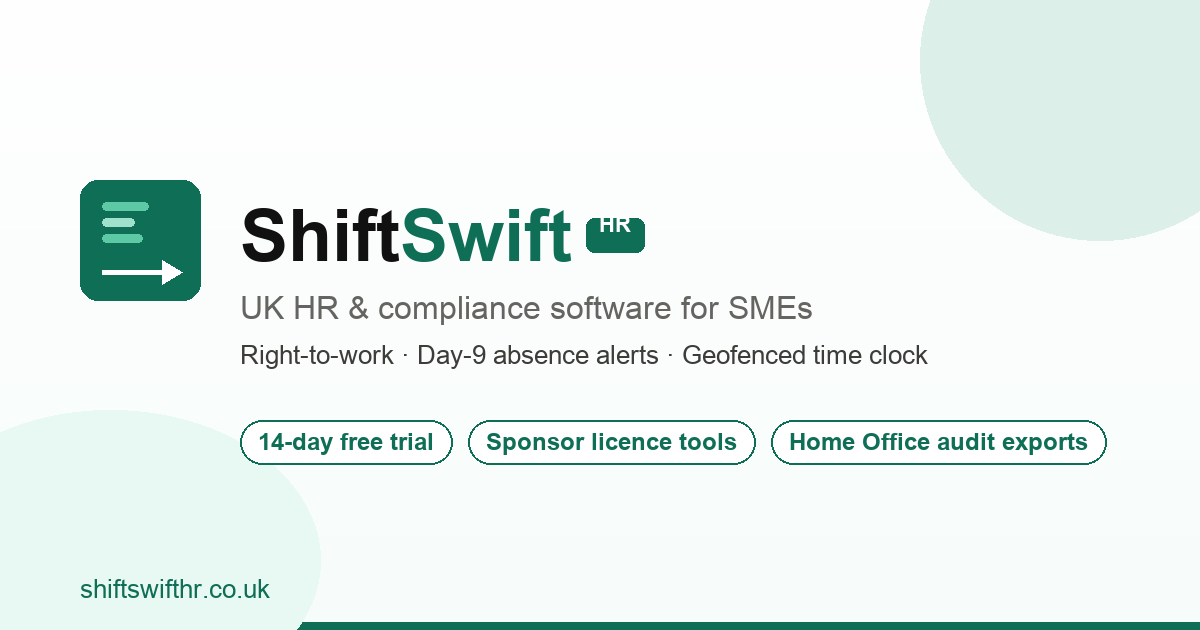
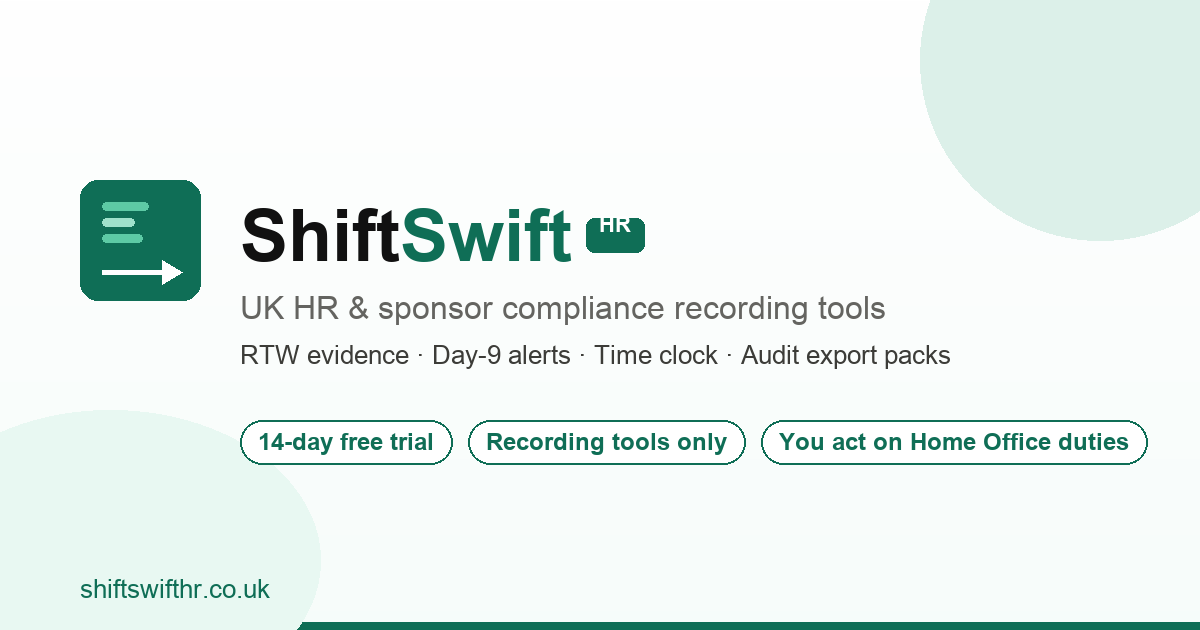
Soften social preview copy to align with EULA disclaimers.
Clarify that ShiftSwift HR provides recording tools and that customers remain responsible for Home Office duties.

Changed region(s): [[0.2158, 0.5429, 0.8017, 0.6032], [0.4008, 0.6635, 0.9558, 0.7238], [0.3083, 0.4524, 0.74, 0.5127]]

diff --git a/frontend/landing.html b/frontend/landing.html
@@ -3,22 +3,30 @@
   <head>
     <meta charset="utf-8" />
     <meta name="viewport" content="width=device-width, initial-scale=1" />
-    <title>ShiftSwift HR | HR Software for UK Businesses</title>
+    <title>ShiftSwift HR | UK HR &amp; Sponsor Compliance Software for SMEs</title>
     <meta
       name="description"
-      content="UK HR software for SMEs and sponsor licence holders — RTW checks, absence monitoring, time clock, and audit exports."
+      content="Tools to record RTW evidence, day-9 absence alerts, geofenced time clock, and audit export packs. Your organisation remains responsible for Home Office duties. Free 14-day trial."
     />
     <link rel="canonical" href="https://www.shiftswifthr.co.uk/" />
     <meta property="og:type" content="website" />
     <meta property="og:site_name" content="ShiftSwift HR" />
     <meta property="og:url" content="https://www.shiftswifthr.co.uk/" />
-    <meta property="og:title" content="ShiftSwift HR | UK HR Software for SMEs" />
-    <meta property="og:description" content="Your complete people & workforce platform. Built for UK compliance." />
-    <meta property="og:image" content="https://www.shiftswifthr.co.uk/assets/og-image.png?v=1" />
+    <meta property="og:title" content="ShiftSwift HR | UK HR &amp; Sponsor Compliance Software for SMEs" />
+    <meta
+      property="og:description"
+      content="Tools to record RTW evidence, day-9 absence alerts, geofenced time clock, and audit export packs. Your organisation remains responsible for Home Office duties. Free 14-day trial."
+    />
+    <meta property="og:image" content="https://www.shiftswifthr.co.uk/assets/og-image.png?v=2" />
     <meta property="og:image:width" content="1200" />
     <meta property="og:image:height" content="630" />
     <meta name="twitter:card" content="summary_large_image" />
-    <meta name="twitter:image" content="https://www.shiftswifthr.co.uk/assets/og-image.png?v=1" />
+    <meta name="twitter:title" content="ShiftSwift HR | UK HR &amp; Sponsor Compliance Software" />
+    <meta
+      name="twitter:description"
+      content="Record RTW evidence, day-9 alerts, time clock &amp; audit exports. You remain responsible for Home Office duties. Free 14-day trial."
+    />
+    <meta name="twitter:image" content="https://www.shiftswifthr.co.uk/assets/og-image.png?v=2" />
     <link rel="icon" type="image/png" sizes="32x32" href="./assets/favicon.png?v=brandkit-v1" />
     <link rel="icon" type="image/svg+xml" href="./assets/shiftswift-hr-icon.svg?v=brandkit-v1" />
     <link rel="apple-touch-icon" href="./assets/shiftswift-hr-icon.png?v=brandkit-v1" />

diff --git a/frontend/index.html b/frontend/index.html
@@ -3,32 +3,32 @@
   <head>
     <meta charset="utf-8" />
     <meta name="viewport" content="width=device-width, initial-scale=1" />
-    <title>ShiftSwift HR | UK HR Software for SMEs & Sponsor Licence Holders</title>
+    <title>ShiftSwift HR | UK HR &amp; Sponsor Compliance Software for SMEs</title>
     <meta
       name="description"
-      content="Manage right-to-work checks, day-9 absence alerts, geofenced time clock, and Home Office audit exports. UK HR software for SMEs — free 14-day trial."
+      content="Tools to record RTW evidence, day-9 absence alerts, geofenced time clock, and audit export packs. Your organisation remains responsible for Home Office duties. Free 14-day trial."
     />
     <link rel="canonical" href="https://www.shiftswifthr.co.uk/" />
     <meta property="og:type" content="website" />
     <meta property="og:site_name" content="ShiftSwift HR" />
     <meta property="og:locale" content="en_GB" />
     <meta property="og:url" content="https://www.shiftswifthr.co.uk/" />
-    <meta property="og:title" content="ShiftSwift HR | UK HR Software for SMEs & Sponsor Licence Holders" />
+    <meta property="og:title" content="ShiftSwift HR | UK HR &amp; Sponsor Compliance Software for SMEs" />
     <meta
       property="og:description"
-      content="Right-to-work checks, day-9 absence alerts, geofenced time clock, and Home Office audit exports. Built for UK SMEs — free 14-day trial."
+      content="Tools to record RTW evidence, day-9 absence alerts, geofenced time clock, and audit export packs. Your organisation remains responsible for Home Office duties. Free 14-day trial."
     />
-    <meta property="og:image" content="https://www.shiftswifthr.co.uk/assets/og-image.png?v=1" />
+    <meta property="og:image" content="https://www.shiftswifthr.co.uk/assets/og-image.png?v=2" />
     <meta property="og:image:width" content="1200" />
     <meta property="og:image:height" content="630" />
-    <meta property="og:image:alt" content="ShiftSwift HR — UK HR and sponsor licence compliance software" />
+    <meta property="og:image:alt" content="ShiftSwift HR — UK HR and sponsor compliance recording tools" />
     <meta name="twitter:card" content="summary_large_image" />
-    <meta name="twitter:title" content="ShiftSwift HR | UK HR Software for SMEs" />
+    <meta name="twitter:title" content="ShiftSwift HR | UK HR &amp; Sponsor Compliance Software" />
     <meta
       name="twitter:description"
-      content="RTW checks, day-9 absence alerts, geofenced time clock & audit exports. Free 14-day trial."
+      content="Record RTW evidence, day-9 alerts, time clock &amp; audit exports. You remain responsible for Home Office duties. Free 14-day trial."
     />
-    <meta name="twitter:image" content="https://www.shiftswifthr.co.uk/assets/og-image.png?v=1" />
+    <meta name="twitter:image" content="https://www.shiftswifthr.co.uk/assets/og-image.png?v=2" />
     <link rel="icon" type="image/png" sizes="32x32" href="./assets/favicon.png?v=brandkit-v2" />
     <link rel="icon" type="image/svg+xml" href="./assets/shiftswift-hr-icon.svg?v=brandkit-v2" />
     <link rel="apple-touch-icon" href="./assets/shiftswift-hr-icon.png?v=brandkit-v2" />

diff --git a/scripts/generate_og_image.py b/scripts/generate_og_image.py
@@ -72,15 +72,15 @@ def main() -> None:
     draw.rounded_rectangle([badge_x, 218, badge_x + 58, 252], radius=8, fill=GREEN)
     draw.text((badge_x + 29, 224), "HR", font=load_font(22, bold=True), fill=(255, 255, 255), anchor="mm")
 
-    draw.text((240, 290), "UK HR & compliance software for SMEs", font=sub_font, fill=MUTED)
+    draw.text((240, 290), "UK HR & sponsor compliance recording tools", font=sub_font, fill=MUTED)
     draw.text(
         (240, 340),
-        "Right-to-work · Day-9 absence alerts · Geofenced time clock",
+        "RTW evidence · Day-9 alerts · Time clock · Audit export packs",
         font=load_font(26),
         fill=(60, 60, 56),
     )
 
-    pills = ["14-day free trial", "Sponsor licence tools", "Home Office audit exports"]
+    pills = ["14-day free trial", "Recording tools only", "You act on Home Office duties"]
     px = 240
     py = 420
     for label in pills: